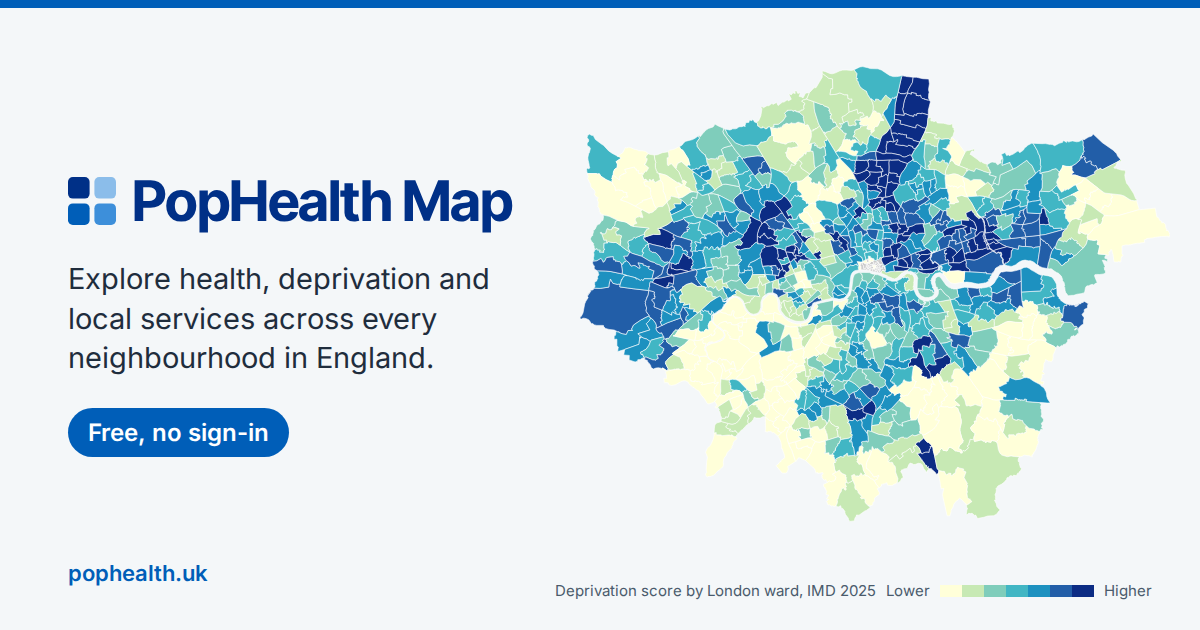
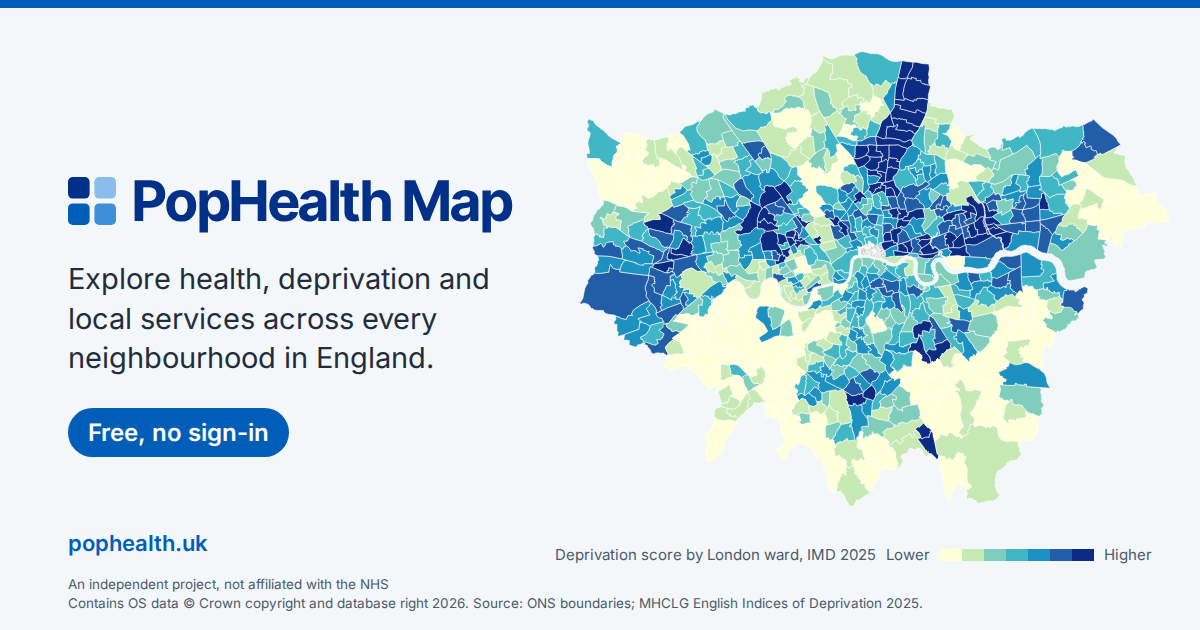
Presentation view keeps the credits: attribution stays, a caption under the key, room for framed areas, and the instruction card fades
B10: only the zoom and other controls are hidden; a caption names the
indicator, period, source and tile credit; framed areas leave room at top and
bottom; the card fades after four seconds to a small Done button and asks
readers to keep the credit line. og.png regenerated with the OS, ONS and MHCLG
credits and the not affiliated with the NHS line.

Claude-Session: https://claude.ai/code/session_016pa4U4Tf819sbngAzMTbHr

Changed region(s): [[0.0308, 0.0603, 0.9867, 0.9651]]

diff --git a/index.html b/index.html
@@ -447,6 +447,14 @@
   body.presenting #fingertips-banner, body.presenting footer.sbar { display: none !important; }
   body.presenting .map-wrap { --sheet-lift: 0px !important; }
   body.presenting .main { grid-template-columns: minmax(0, 1fr); }
+  /* The picture keeps its credits: the map's attribution stays in its corner,
+     and a caption under the key says what is shown, for when, from whom, and
+     whose map it is drawn on (_shotCaptionText). The key rises to make room. */
+  body.presenting .map-legend-strip, body.presenting .map-wrap.has-sheet .map-legend-strip { bottom: 66px !important; }
+  .shot-caption { position: absolute; left: 50%; bottom: 24px; transform: translateX(-50%); z-index: 541;
+    width: max-content; max-width: min(820px, calc(100% - 32px)); padding: 5px 10px; text-align: center;
+    background: color-mix(in srgb, var(--paper) 92%, transparent); border-radius: var(--r-sm);
+    font-size: 11.5px; line-height: 1.4; color: var(--ink-2); pointer-events: none; }
   body.presenting .map-wrap { grid-template-rows: minmax(0, 1fr); }
 
   /* ── Header search ── */
@@ -1070,7 +1078,14 @@
     max-width: min(560px, calc(100vw - 32px)); padding: 10px var(--s-4); background: var(--paper);
     color: var(--ink-2); border: 1px solid var(--line); border-radius: var(--r-md);
     box-shadow: var(--shadow-lg); font-size: var(--t-md); line-height: 1.5; }
-  .shot-banner { top: 14px; display: flex; align-items: center; gap: 14px; width: max-content; }
+  .shot-banner { top: 14px; display: flex; align-items: center; gap: 14px; width: max-content;
+    transition: opacity .4s; }
+  /* After four seconds the instructions fade, and only a small Done button
+     stays, in the top right corner, out of the way of the map. */
+  .shot-banner.mini { left: auto; right: 14px; transform: none; padding: 4px; gap: 0; }
+  .shot-banner.mini > span { display: none; }
+  .shot-banner.mini #screenshot-done { padding: 4px 10px; font-size: var(--t-sm); min-height: 0; }
+  .shot-banner.fading > span { opacity: 0; transition: opacity .4s; }
   .shot-banner strong, .toast b { color: var(--ink); font-weight: 600; }
   .shot-banner kbd { font: inherit; font-size: var(--t-sm); font-weight: 600; color: var(--ink);
     white-space: nowrap; padding: 0 6px; background: var(--paper-2); border: 1px solid var(--line);
@@ -17093,6 +17108,40 @@ function _exportDialog(title, options, extras, sub) {
 // screenshot of the actual rendered map — no rasterisation, no
 // projection mismatch.
 let _screenshotState = null;
+/* The credit line drawn into Presentation view, under the key, e.g. "Year 6
+   children with obesity, 2022/23 to 2024/25. Ward figures are estimates from
+   OHID Local Health MSOA figures. Map: PopHealth Map, pophealth.uk. Contains
+   OS data (c) Crown copyright and database right 2026. Map data (c)
+   OpenStreetMap contributors, (c) CARTO." The tile credit follows the
+   background actually showing. */
+function _shotCaptionText() {
+  const parts = [];
+  const k = (typeof curOv === 'string') ? curOv : 'none';
+  if (k && k !== 'none' && typeof OV_META === 'object' && OV_META[k]) {
+    const yr = OV_META[k].yr ? fmtPeriod(String(OV_META[k].yr)) : '';
+    parts.push(ovLabel(k) + (yr ? ', ' + yr : '') + '.');
+    const lvl = (typeof currentDataLevel === 'string') ? currentDataLevel : '';
+    if (/^ft_\d+$/.test(k) && lvl === 'ward') parts.push('Ward figures are estimates from OHID Local Health MSOA figures.');
+    else {
+      const src = (typeof _cardSource === 'function') ? _cardSource(k) : '';
+      if (src) parts.push('Source: ' + src + '.');
+    }
+    if (typeof PH_IS_LONDON !== 'undefined' && PH_IS_LONDON && PH_TFL_KEYS.indexOf(k) !== -1) {
+      parts.push('Powered by TfL Open Data. Contains OS data \u00a9 Crown copyright and database rights 2016. ' +
+        'Geomni UK Map data \u00a9 and database rights 2019.');
+    }
+    if (PH_DEFRA_AIR_KEYS.indexOf(k) !== -1) parts.push('\u00a9 Crown copyright Defra via uk-air.defra.gov.uk.');
+  }
+  parts.push('Map: PopHealth Map, pophealth.uk.');
+  const year = (DATA_DATE || '').slice(0, 4) || String(new Date().getFullYear());
+  parts.push('Contains OS data \u00a9 Crown copyright and database right ' + year + '.');
+  const sat = typeof _satBase !== 'undefined' && _satBase && map.hasLayer(_satBase);
+  const esri = !sat && typeof _streetBase !== 'undefined' && _streetBase && /arcgisonline/.test(_streetBase._url || '');
+  parts.push(sat ? 'Imagery \u00a9 Esri, Maxar, Earthstar Geographics and the GIS User Community.'
+    : esri ? 'Tiles \u00a9 Esri, HERE, Garmin. Map data \u00a9 OpenStreetMap contributors.'
+    : 'Map data \u00a9 OpenStreetMap contributors, \u00a9 CARTO.');
+  return parts.join(' ');
+}
 async function _prepareScreenForScreenshot(opts) {
   opts = opts || { mode: 'nwl', whiteOutside: true };
   if (_screenshotState) return; // already in screenshot mode
@@ -17108,8 +17157,10 @@ async function _prepareScreenForScreenshot(opts) {
   try { map.invalidateSize({ animate: false }); } catch (e) { /* no-op */ }
   const dlBadge = document.getElementById('dl-badge');
   const dlPrevVis = dlBadge ? dlBadge.style.visibility : '';
+  // The zoom and other controls go, but the attribution stays: the tile and
+  // data credits have to be in the picture.
   const ctrlCorners = Array.from(document.querySelectorAll(
-    '.leaflet-top, .leaflet-bottom, .leaflet-control-attribution'
+    '.leaflet-top, .leaflet-bottom .leaflet-control:not(.leaflet-control-attribution)'
   ));
   const ctrlPrevVis = ctrlCorners.map(el => el.style.visibility);
   if (dlBadge) dlBadge.style.visibility = 'hidden';
@@ -17137,7 +17188,9 @@ async function _prepareScreenForScreenshot(opts) {
     }
     if (scopeBounds) {
       try {
-        map.fitBounds(scopeBounds, { padding: [40, 40], animate: false });
+        // Room at the top for the instruction card, and at the bottom for
+        // the key and the credit caption, so neither covers the area.
+        map.fitBounds(scopeBounds, { paddingTopLeft: [40, 110], paddingBottomRight: [40, 120], animate: false });
         movedMap = true;
         await new Promise(r => setTimeout(r, 250));
       } catch (e) { /* no-op */ }
@@ -17187,15 +17240,29 @@ async function _prepareScreenForScreenshot(opts) {
   banner.innerHTML = '<span>' + (touch
     ? 'The map is ready for your screenshot, so take one in the usual way on your device and then select Done.'
     : 'The map is ready for your screenshot. Press <kbd>Win + Shift + S</kbd> on Windows or ' +
-      '<kbd>Cmd + Shift + 4</kbd> on a Mac, and then select Done or press <kbd>Esc</kbd>.') + '</span>' +
+      '<kbd>Cmd + Shift + 4</kbd> on a Mac, and then select Done or press <kbd>Esc</kbd>.') +
+    ' Keep the credit line at the bottom in your picture.</span>' +
     '<button type="button" id="screenshot-done" class="btn btn-primary">Done</button>';
   document.body.appendChild(banner);
+  // The card fades after four seconds so it is not in the picture, leaving a
+  // small Done button; Esc still works throughout.
+  const fadeT1 = setTimeout(() => banner.classList.add('fading'), 4000);
+  const fadeT2 = setTimeout(() => banner.classList.add('mini'), 4400);
+  // The caption under the key: indicator, period, source and tile credit.
+  const caption = document.createElement('div');
+  caption.className = 'shot-caption';
+  caption.id = 'shot-caption';
+  caption.textContent = _shotCaptionText();
+  const mapWrap = document.getElementById('map-wrap');
+  if (mapWrap) mapWrap.appendChild(caption);
 
   const onKey = e => { if (e.key === 'Escape' && _screenshotState) { e.preventDefault(); _screenshotState.cleanup(); } };
   document.addEventListener('keydown', onKey);
   _screenshotState = {
     cleanup: () => {
       document.removeEventListener('keydown', onKey);
+      clearTimeout(fadeT1); clearTimeout(fadeT2);
+      if (caption.parentNode) caption.parentNode.removeChild(caption);
       try { if (whiteOverlay) map.removeLayer(whiteOverlay); } catch(e) {}
       if (tipStyle.parentNode) tipStyle.parentNode.removeChild(tipStyle);
       if (dlBadge) dlBadge.style.visibility = dlPrevVis;
